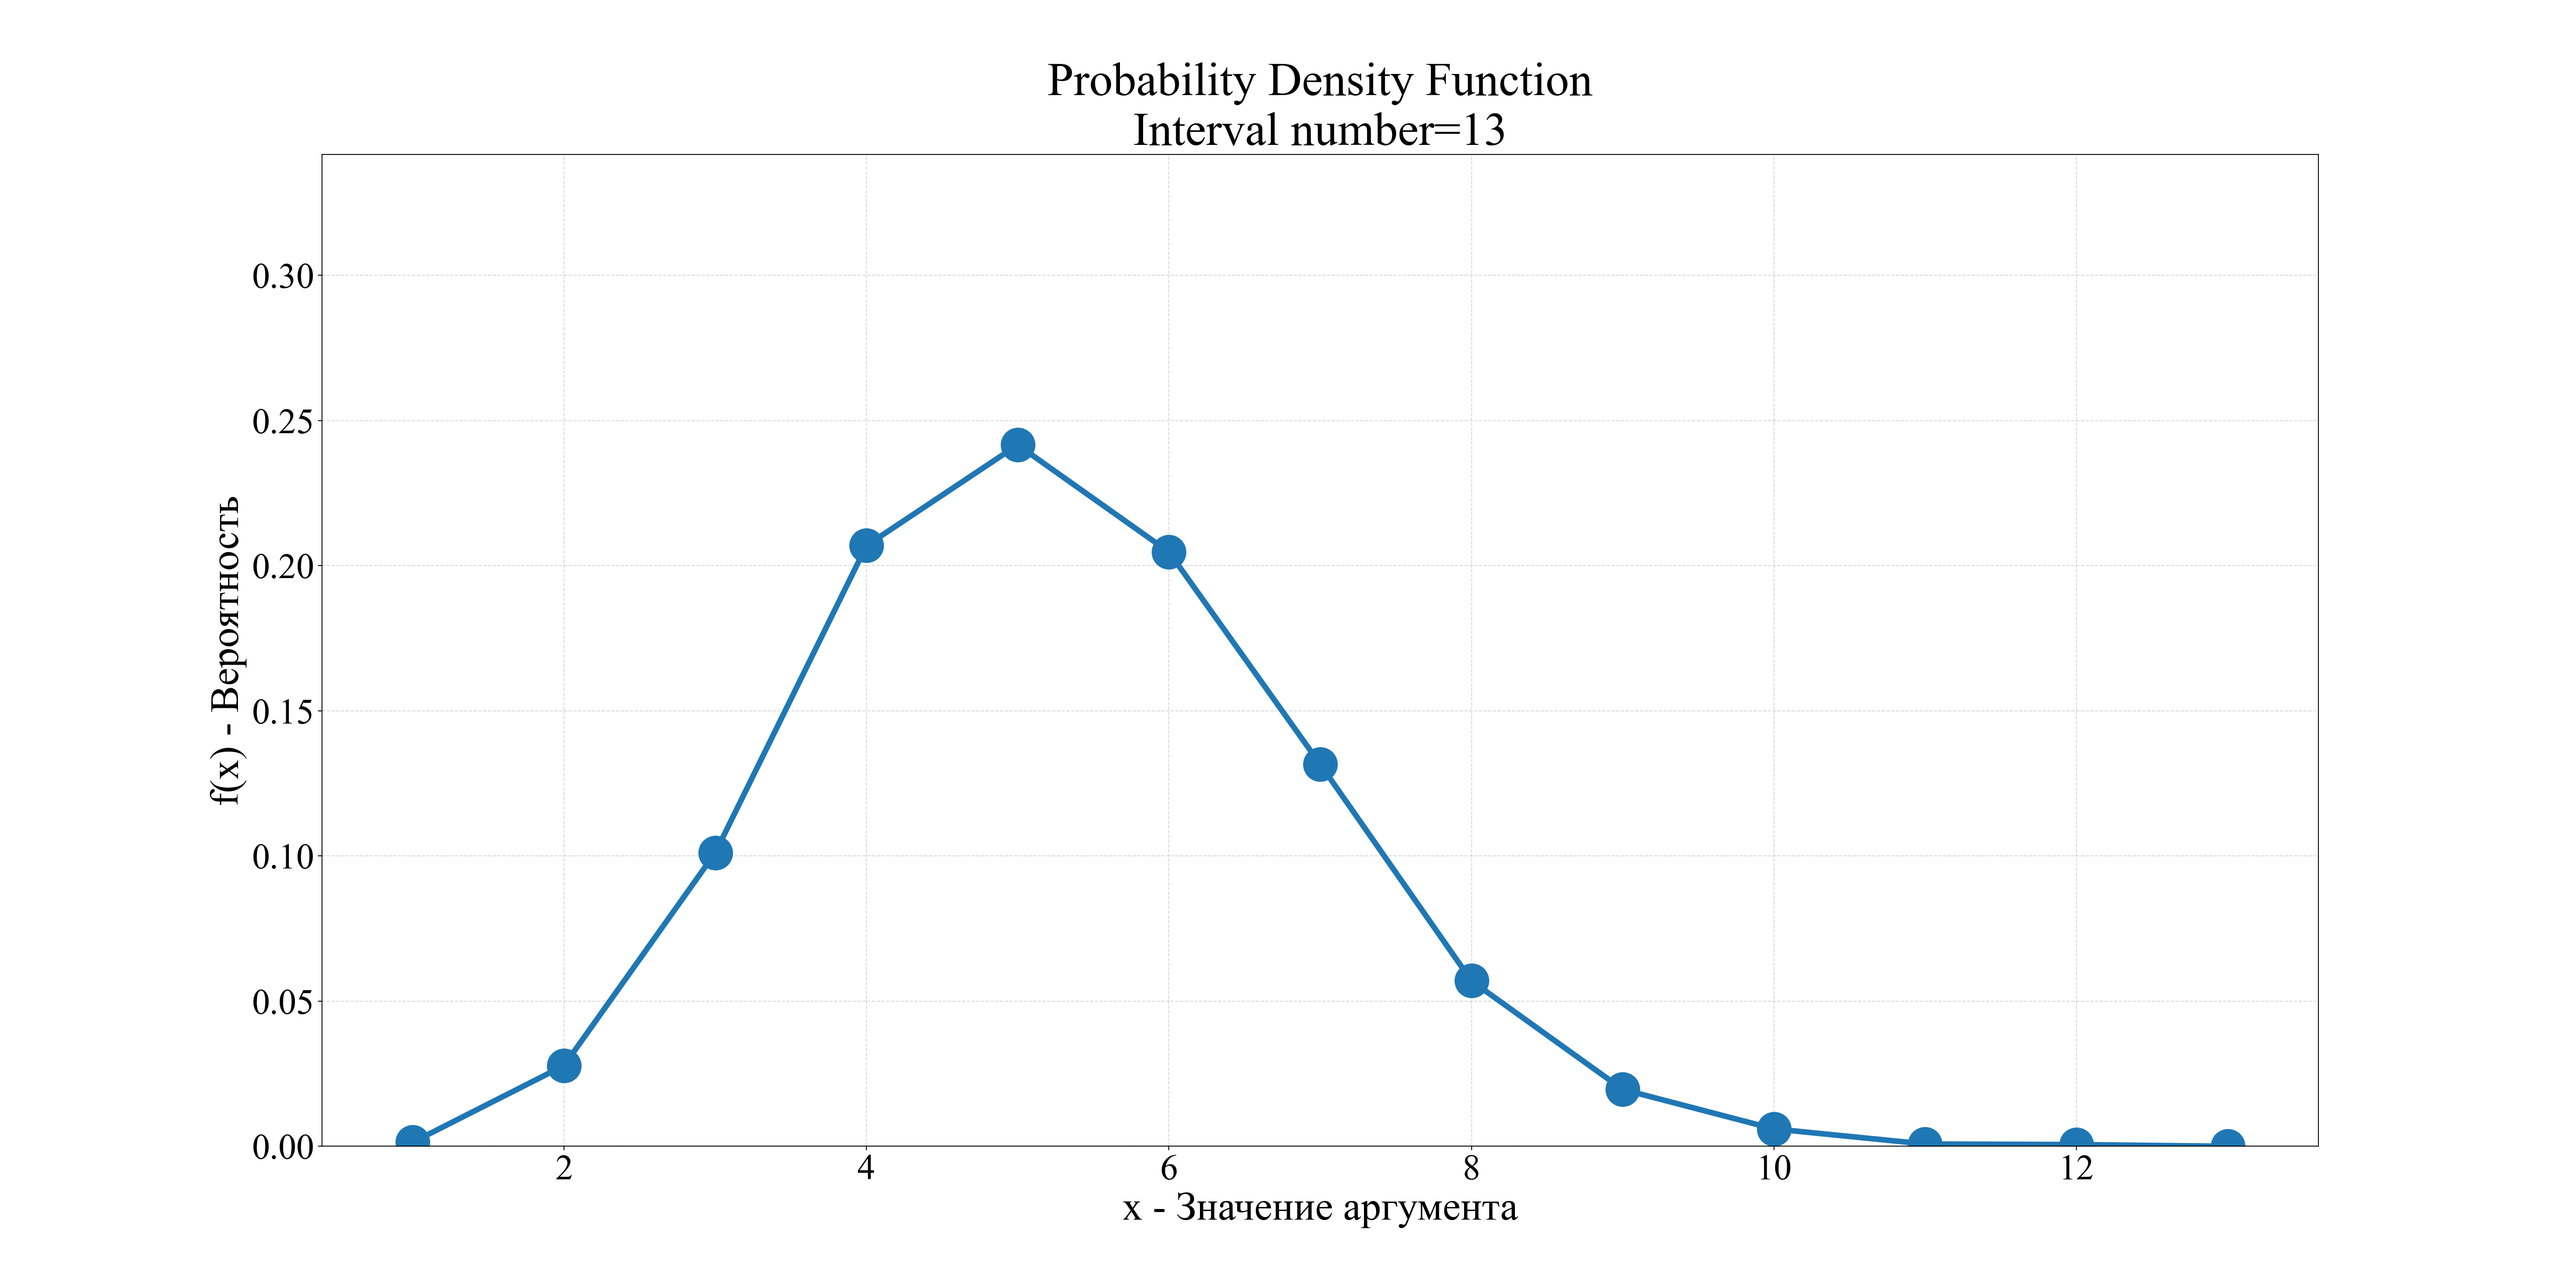
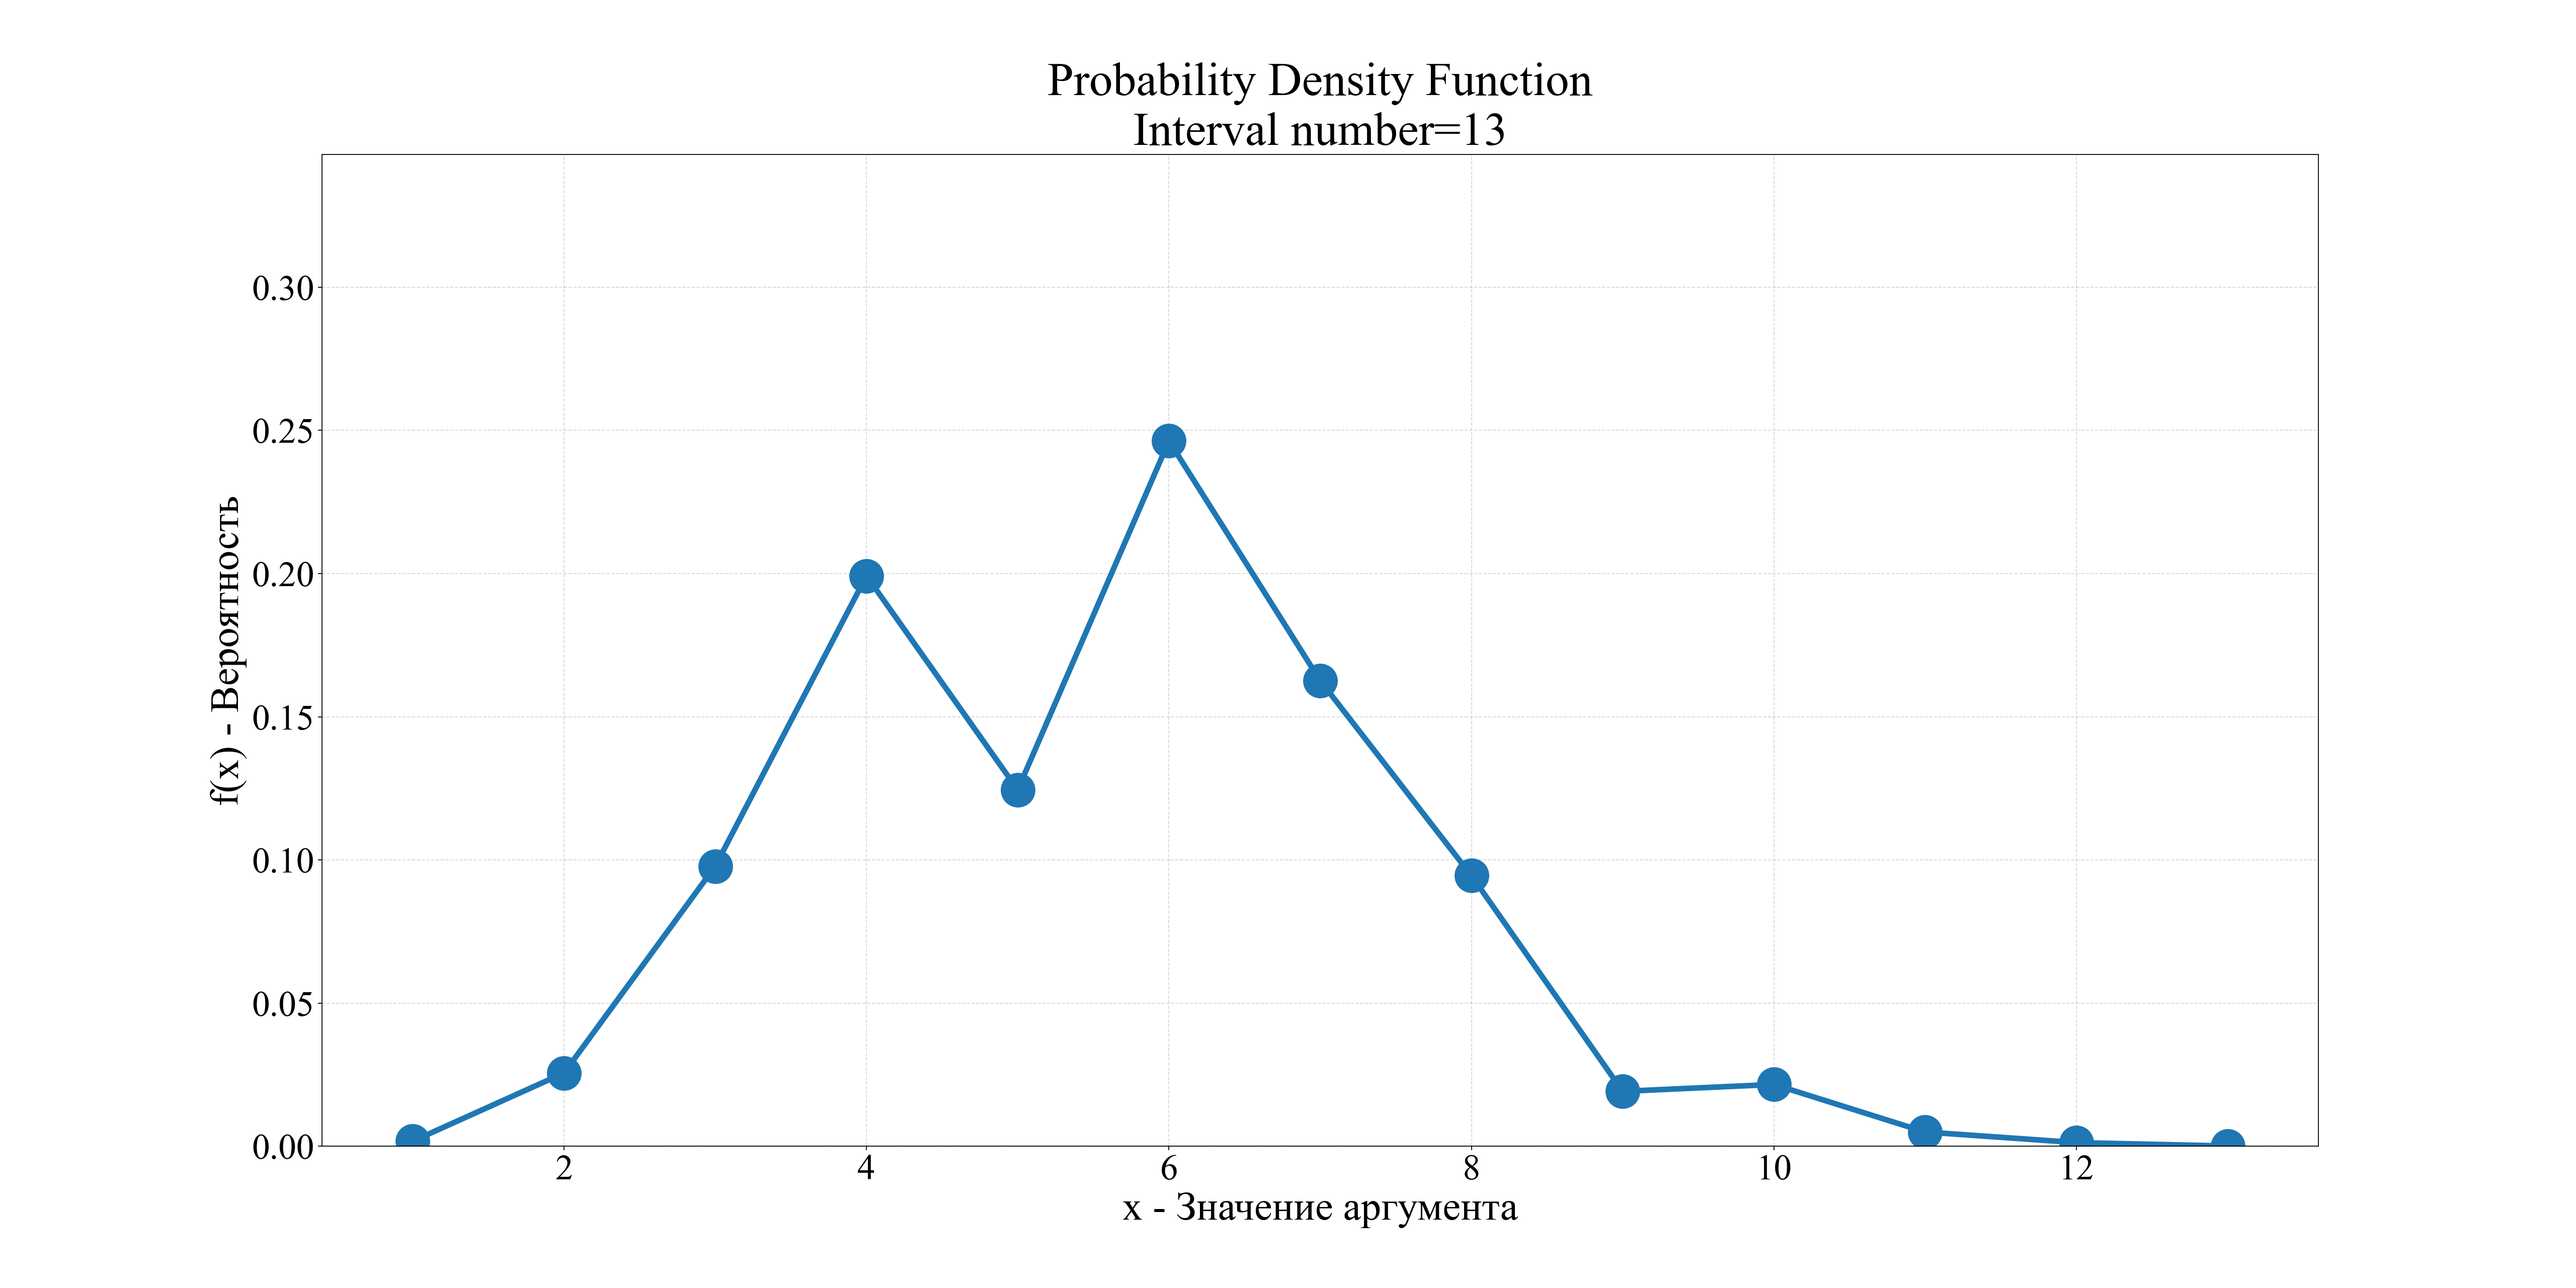
增加 泊松分布算法 2

diff --git a/002 - lab2/main.py b/002 - lab2/main.py
@@ -184,11 +184,11 @@ if __name__ == '__main__':
     #                        img_save_fold='./result/【2.3.3】Geometric distribution/')
 
     # 【2.4.1】РАСПРЕДЕЛЕНИЕ ПУАССОНА (Алгоритм 1)
-    poisson_distribution(arr_poisson=irandom.irnpoi(mu=10, size=10000),
-                         img_save_fold='./result/【2.4.1】Poisson distribution/')
+    # poisson_distribution(arr_poisson=irandom.irnpoi(mu=10, size=10000),
+    #                      img_save_fold='./result/【2.4.1】Poisson distribution/')
 
     # 【2.4.2】РАСПРЕДЕЛЕНИЕ ПУАССОНА (Алгоритм 2)
-    poisson_distribution(arr_poisson=irandom.irnpoi(mu=10, size=10000),
-                         img_save_fold='./result/【2.4.1】Poisson distribution/')
+    poisson_distribution(arr_poisson=irandom.irnpsn(mu=10, size=10000),
+                         img_save_fold='./result/【2.4.2】Poisson distribution/')
 
     pass

diff --git a/002 - lab2/irandom.py b/002 - lab2/irandom.py
@@ -110,3 +110,31 @@ def irnpoi(mu: int, size: int) -> np.ndarray:
 
     return np.array(arr_irnpoi)
 
+
+def irnpsn(mu: int, size: int) -> np.ndarray:
+    """
+    【2.4.1】泊松分布（算法 1）
+    :param mu: int 类型
+    :param size: 数组大小
+    :return: 具有泊松分布的 numpy.ndarry
+    """
+    if mu < 0 or size <= 0:
+        raise ValueError
+
+    arr_irnpsn = []
+
+    for i in range(size):
+        if mu < 88:
+            i_uniform = np.random.uniform(low=0, high=1)
+            p_t = i_uniform
+            m = 1
+            while p_t >= math.exp(-mu):
+                i_uniform = np.random.uniform(low=0, high=1)
+                p_t *= i_uniform
+                m += 1
+            arr_irnpsn.append(m)
+        else:
+            m = np.random.normal(loc=mu, scale=mu, size=1)
+            arr_irnpsn.append(m)
+
+    return np.array(arr_irnpsn)
